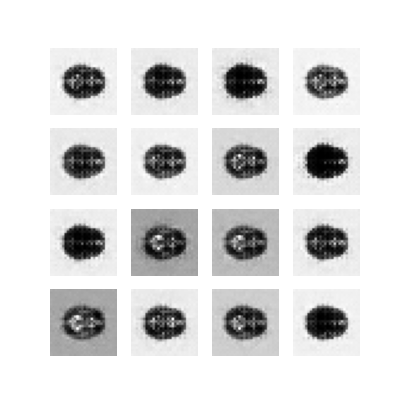
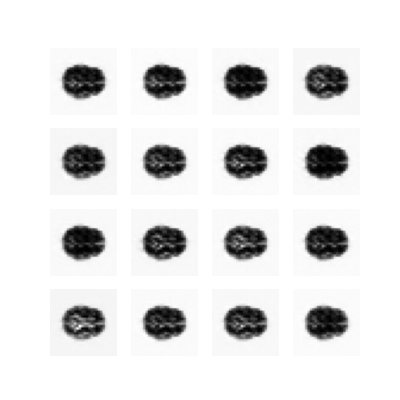
Created 64x64 model

diff --git a/recognition/s4436194_oasis_dcgan/models_helper.py b/recognition/s4436194_oasis_dcgan/models_helper.py
@@ -8,10 +8,17 @@ def make_models_28() -> Tuple[Model, Model, int]:
     return Discriminator28(), Generator28(), 28
 
 
+def make_models_64() -> Tuple[Model, Model, int]:
+    return Discriminator64(), Generator64(), 64
+
+##########################################################################################################
+# 28 x 28 models
+##########################################################################################################
+
+
 class Discriminator28(Model):
 
     def __init__(self):
-
         super(Discriminator28, self).__init__()
 
         self.loss = tf.keras.losses.BinaryCrossentropy(from_logits=True)
@@ -49,7 +56,8 @@ class Generator28(Model):
         self.loss = tf.keras.losses.BinaryCrossentropy(from_logits=True)
         self.optimizer = tf.keras.optimizers.Adam(1e-4)
 
-        self.layer_dense_0 = layers.Dense(7*7*256, use_bias=False, input_shape=(100,))
+        self.layer_input = tf.keras.Input(shape=7 * 7 * 256)
+        self.layer_dense_0 = layers.Dense(7 * 7 * 256, use_bias=False, input_shape=(100,))
         self.layer_batch_norm_0 = layers.BatchNormalization()
         self.layer_lrelu_0 = layers.LeakyReLU()
 
@@ -81,6 +89,180 @@ class Generator28(Model):
 
         return self.layer_conv2d_2(x)
 
+##########################################################################################################
+# 64 x 64 models
+##########################################################################################################
+
+
+class Discriminator64(Model):
+
+    def __init__(self):
+        super(Discriminator64, self).__init__()
+
+        self.loss = tf.keras.losses.BinaryCrossentropy(from_logits=True)
+        self.optimizer = tf.keras.optimizers.Adam(1e-4)
+
+        self.layer_conv_0 = layers.Conv2D(64, (5, 5), strides=(2, 2), padding='same', input_shape=[64, 64, 1])
+        self.layer_lrelu_0 = layers.LeakyReLU()
+        self.layer_dropout_0 = layers.Dropout(0.3)
+
+        self.layer_conv_1 = layers.Conv2D(128, (5, 5), strides=(2, 2), padding='same')
+        self.layer_lrelu_1 = layers.LeakyReLU()
+        self.layer_dropout_1 = layers.Dropout(0.3)
+
+        self.layer_conv_2 = layers.Conv2D(256, (5, 5), strides=(2, 2), padding='same')
+        self.layer_lrelu_2 = layers.LeakyReLU()
+        self.layer_dropout_2 = layers.Dropout(0.3)
+
+        self.layer_flatten = layers.Flatten()
+        self.layer_output = layers.Dense(1)
+
+    def call(self, x):
+        x = self.layer_conv_0(x)
+        x = self.layer_lrelu_0(x)
+        x = self.layer_dropout_0(x)
+
+        x = self.layer_conv_1(x)
+        x = self.layer_lrelu_1(x)
+        x = self.layer_dropout_1(x)
+
+        x = self.layer_conv_2(x)
+        x = self.layer_lrelu_2(x)
+        x = self.layer_dropout_2(x)
+
+        x = self.layer_flatten(x)
+        return self.layer_output(x)
+
+
+class Generator64(Model):
+
+    def __init__(self):
+        super(Generator64, self).__init__()
+
+        # Test the model architecture
+        # self.network_check()
+
+        self.loss = tf.keras.losses.BinaryCrossentropy(from_logits=True)
+        self.optimizer = tf.keras.optimizers.Adam(1e-4)
+
+        self.layer_input = tf.keras.Input(shape=8 * 8 * 256)
+        self.layer_dense_0 = layers.Dense(8 * 8 * 256, use_bias=False, input_shape=(100,))
+        self.layer_batch_norm_0 = layers.BatchNormalization()
+        self.layer_lrelu_0 = layers.LeakyReLU()
+
+        self.layer_reshape_0 = layers.Reshape((8, 8, 256))
+
+        self.layer_conv2d_1 = layers.Conv2DTranspose(256, (5, 5), strides=(1, 1), padding='same', use_bias=False)
+        self.layer_batch_norm_1 = layers.BatchNormalization()
+        self.layer_lrelu_1 = layers.LeakyReLU()
+
+        self.layer_conv2d_2 = layers.Conv2DTranspose(128, (5, 5), strides=(2, 2), padding='same', use_bias=False)
+        self.layer_batch_norm_2 = layers.BatchNormalization()
+        self.layer_lrelu_2 = layers.LeakyReLU()
+
+        self.layer_conv2d_3 = layers.Conv2DTranspose(64, (5, 5), strides=(2, 2), padding='same', use_bias=False)
+        self.layer_batch_norm_3 = layers.BatchNormalization()
+        self.layer_lrelu_3 = layers.LeakyReLU()
+
+        self.layer_conv2d_4 = layers.Conv2DTranspose(1, (5, 5), strides=(2, 2), padding='same',
+                                                     use_bias=False, activation='tanh')
+
+    def call(self, x):
+        x = self.layer_dense_0(x)
+        x = self.layer_batch_norm_0(x)
+        x = self.layer_lrelu_0(x)
+
+        x = self.layer_reshape_0(x)
+
+        x = self.layer_conv2d_1(x)
+        x = self.layer_batch_norm_1(x)
+        x = self.layer_lrelu_1(x)
+
+        x = self.layer_conv2d_2(x)
+        x = self.layer_batch_norm_2(x)
+        x = self.layer_lrelu_2(x)
+
+        x = self.layer_conv2d_3(x)
+        x = self.layer_batch_norm_3(x)
+        x = self.layer_lrelu_3(x)
+
+        return self.layer_conv2d_4(x)
+
+    @staticmethod
+    def network_check():
+        """Create a replica model and test structure"""
+
+        model = tf.keras.Sequential(name="keras_sequential_generator")
+        model.add(layers.Dense(8 * 8 * 256, use_bias=False, input_shape=(100,)))
+        model.add(layers.BatchNormalization())
+        model.add(layers.LeakyReLU())
+        print(model.output_shape)
+
+        model.add(layers.Reshape((8, 8, 256)))
+        print(model.output_shape)
+
+        model.add(layers.Conv2DTranspose(256, (5, 5), strides=(1, 1), padding='same', use_bias=False))
+        model.add(layers.BatchNormalization())
+        model.add(layers.LeakyReLU())
+        print(model.output_shape)
+
+        model.add(layers.Conv2DTranspose(128, (5, 5), strides=(2, 2), padding='same', use_bias=False))
+        model.add(layers.BatchNormalization())
+        model.add(layers.LeakyReLU())
+        print(model.output_shape)
+
+        model.add(layers.Conv2DTranspose(64, (5, 5), strides=(2, 2), padding='same', use_bias=False))
+        model.add(layers.BatchNormalization())
+        model.add(layers.LeakyReLU())
+        print(model.output_shape)
+
+        model.add(layers.Conv2DTranspose(1, (5, 5), strides=(2, 2), padding='same', use_bias=False, activation='tanh'))
+        print(model.output_shape)
+
+        return
+
+
+def make_generator_model_64_64(input_shape):
+    """
+
+    Args:
+        input_shape:
+
+    Returns:
+
+    """
+
+    model = tf.keras.Sequential(name="keras_sequential_generator")
+    model.add(layers.Dense(4 * 4 * 10, use_bias=False, input_shape=(100,)))
+    model.add(layers.BatchNormalization())
+    model.add(layers.LeakyReLU())
+    print(model.output_shape)
+
+    model.add(layers.Reshape((4, 4, 10)))
+    print(model.output_shape)
+
+    model.add(layers.Conv2DTranspose(64, (2, 2), strides=(2, 2), padding='same', use_bias=False))
+    model.add(layers.BatchNormalization())
+    model.add(layers.LeakyReLU())
+    print(model.output_shape)
+
+    model.add(layers.Conv2DTranspose(32, (2, 2), strides=(2, 2), padding='same', use_bias=False))
+    model.add(layers.BatchNormalization())
+    model.add(layers.LeakyReLU())
+    print(model.output_shape)
+
+    model.add(layers.Conv2DTranspose(16, (2, 2), strides=(2, 2), padding='same', use_bias=False))
+    model.add(layers.BatchNormalization())
+    model.add(layers.LeakyReLU())
+    print(model.output_shape)
+
+    model.add(layers.Conv2DTranspose(1, (2, 2), strides=(2, 2), padding='same', use_bias=False))
+    model.add(layers.BatchNormalization())
+    model.add(layers.LeakyReLU())
+    print(model.output_shape)
+
+    return model
+
 
 def make_generator_model_255_255(input_shape):
     """
@@ -93,7 +275,7 @@ def make_generator_model_255_255(input_shape):
     """
 
     model = tf.keras.Sequential(name="keras_sequential_generator")
-    model.add(layers.Dense(8*8*512, use_bias=False, input_shape=(100,)))
+    model.add(layers.Dense(8 * 8 * 512, use_bias=False, input_shape=(100,)))
     model.add(layers.BatchNormalization())
     model.add(layers.LeakyReLU())
     assert model.output_shape == (None, 8 * 8 * 512)
@@ -173,54 +355,6 @@ def make_discriminator_model_255_255(image_width, image_height):
     return model
 
 
-def make_generator_model_64_64(input_shape):
-    """
-
-    Args:
-        input_shape:
-
-    Returns:
-
-    """
-
-    model = tf.keras.Sequential(name="keras_sequential_generator")
-    model.add(layers.Dense(4*4*10, use_bias=False, input_shape=(100,)))
-    model.add(layers.BatchNormalization())
-    model.add(layers.LeakyReLU())
-    # assert model.output_shape == (None, 8 * 8 * 512)
-    print(model.output_shape)
-
-    model.add(layers.Reshape((4, 4, 10)))
-    # assert model.output_shape == (None, 8, 8, 512)
-    print(model.output_shape)
-
-    model.add(layers.Conv2DTranspose(64, (2, 2), strides=(2, 2), padding='same', use_bias=False))
-    model.add(layers.BatchNormalization())
-    model.add(layers.LeakyReLU())
-    # assert model.output_shape == (None, 16, 16, 256)
-    print(model.output_shape)
-
-    model.add(layers.Conv2DTranspose(32, (2, 2), strides=(2, 2), padding='same', use_bias=False))
-    model.add(layers.BatchNormalization())
-    model.add(layers.LeakyReLU())
-    # assert model.output_shape == (None, 32, 32, 128)
-    print(model.output_shape)
-
-    model.add(layers.Conv2DTranspose(16, (2, 2), strides=(2, 2), padding='same', use_bias=False))
-    model.add(layers.BatchNormalization())
-    model.add(layers.LeakyReLU())
-    # assert model.output_shape == (None, 64, 64, 64)
-    print(model.output_shape)
-
-    model.add(layers.Conv2DTranspose(1, (2, 2), strides=(2, 2), padding='same', use_bias=False))
-    model.add(layers.BatchNormalization())
-    model.add(layers.LeakyReLU())
-    assert model.output_shape == (None, 64, 64, 1)
-    print(model.output_shape)
-
-    return model
-
-
 def make_discriminator_model_64_64(image_width, image_height):
     """
 
@@ -268,4 +402,3 @@ def make_discriminator_model_64_64(image_width, image_height):
     print(model.output_shape)
 
     return model
-

diff --git a/recognition/s4436194_oasis_dcgan/oasis_dcgan.py b/recognition/s4436194_oasis_dcgan/oasis_dcgan.py
@@ -9,7 +9,8 @@ from tqdm import tqdm
 
 from recognition.s4436194_oasis_dcgan.data_helper import Dataset
 from recognition.s4436194_oasis_dcgan.models_helper import (
-    make_models_28
+    make_models_28,
+    make_models_64,
 )
 
 DATA_TRAIN_DIR = "keras_png_slices_data/keras_png_slices_data/keras_png_slices_seg_train"
@@ -29,7 +30,15 @@ class DCGANModelFramework:
     def __init__(self):
 
         # Instantiate discriminator and generator objects
-        self.discriminator, self.generator, self.size = make_models_28()
+        self.discriminator, self.generator, self.size = make_models_64()
+
+        # Set the seed for all saved images, so we consistently get the same images
+        self.seed = tf.random.normal([N_EPOCH_SAMPLES, NOISE_DIMENSION])
+
+        # Need to pass an example through first
+        _ = self.discriminator(self.generator(self.seed))
+        self.generator.summary()
+        self.discriminator.summary()
 
         # Set uo save name and required directories
         self.save_name = f"{datetime.now().strftime('%Y-%m-%d')}-{self.size}x{self.size}"
@@ -59,11 +68,8 @@ class DCGANModelFramework:
                                          generator=self.generator,
                                          discriminator=self.discriminator)
 
-        # Set the seed for all saved images, so we consistently get the same images
-        seed = tf.random.normal([N_EPOCH_SAMPLES, NOISE_DIMENSION])
-
         # Check for existing checkpoint, restore if possible
-        if os.path.exists(checkpoint_path):
+        if glob.glob(f"{checkpoint_path}/*.index"):
             status = checkpoint.restore(tf.train.latest_checkpoint(checkpoint_path))
             checkpoint_epoch = max(int(i[-7]) for i in glob.glob(f"{checkpoint_path}/*.index"))
             print(f"Reverted to checkpoint: {checkpoint_prefix}, epoch: {checkpoint_epoch}")
@@ -103,7 +109,7 @@ class DCGANModelFramework:
 
         # Main epoch loop
         total_batches = int((dataset.n_files / batch_size) + 1)
-        self.generate_and_save_images(0, seed)
+        self.generate_and_save_images(0)
 
         # Start from existing epochs
         for e in range(checkpoint_epoch, epochs + checkpoint_epoch):
@@ -114,7 +120,7 @@ class DCGANModelFramework:
                 train_step(batch_images)
 
             # Save the model every epoch
-            self.generate_and_save_images(e + 1, seed)
+            self.generate_and_save_images(e + 1)
             checkpoint.save(file_prefix=checkpoint_prefix)
 
             print(f"\nTime for epoch {e + 1} is {(time.time() - start) / 60} minutes\n")
@@ -169,16 +175,15 @@ class DCGANModelFramework:
         """
         return self.generator.loss(tf.ones_like(fake_output), fake_output)
 
-    def generate_and_save_images(self, epoch, test_input):
+    def generate_and_save_images(self, epoch):
         """
         Create a set of test images, designed to do this at each epoch
 
         Args:
             epoch: Number of epochs completed
-            test_input: Array of noise to generate image from
         """
 
-        predictions = self.generator(test_input, training=False)
+        predictions = self.generator(self.seed, training=False)
 
         fig = plt.figure(figsize=(4, 4))
 
